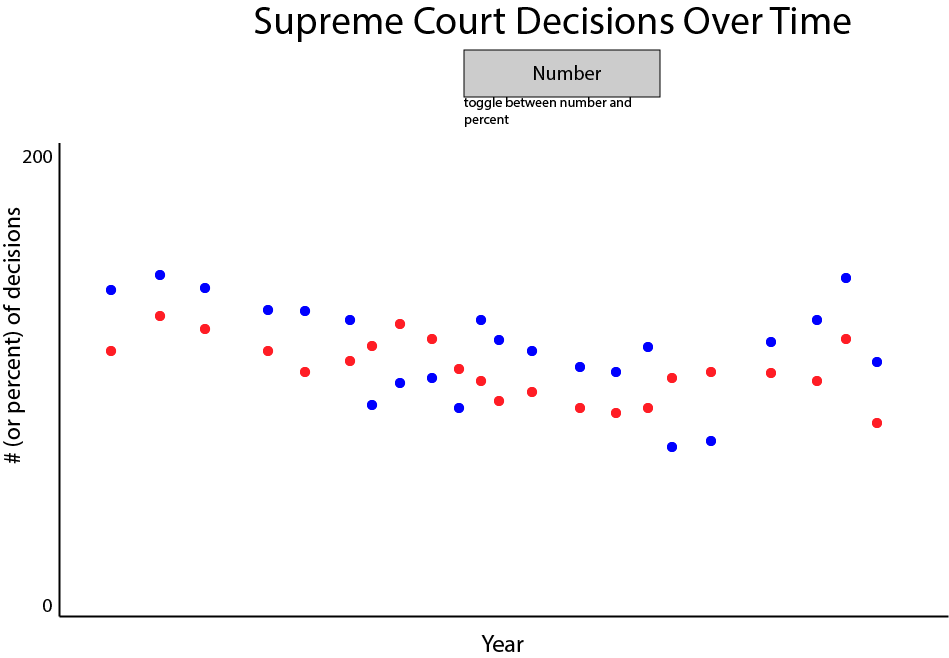
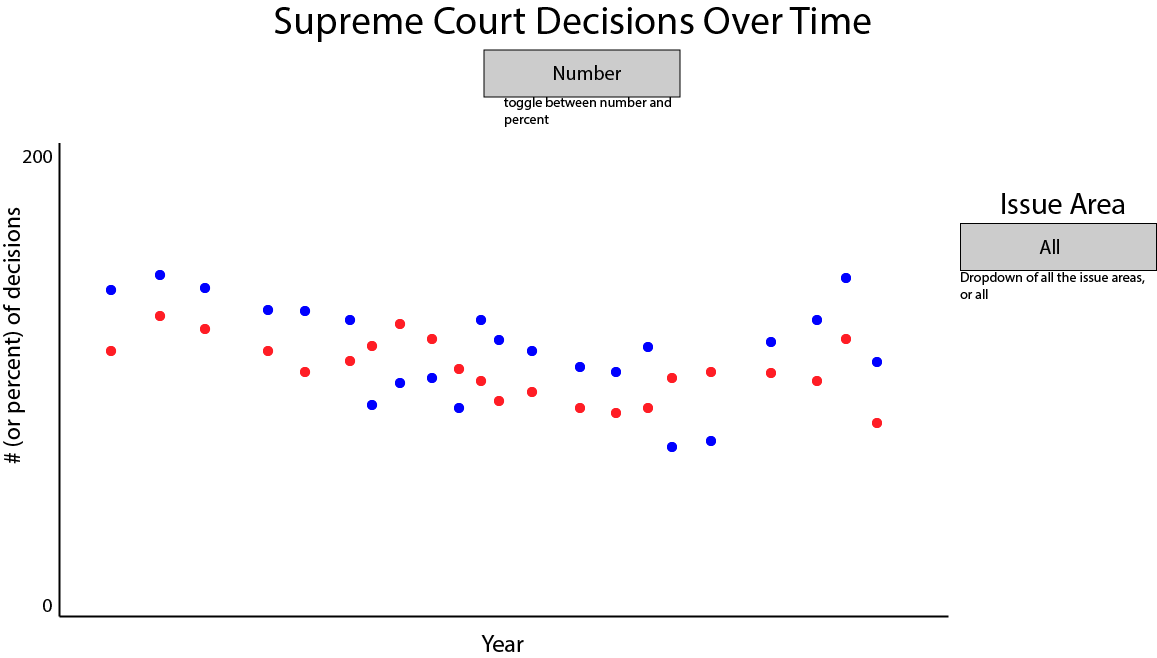
more changes

diff --git a/FP10/index.html b/FP10/index.html
@@ -2,6 +2,7 @@
 <html>
 <head>
   <title>FP10</title>
+  <link rel="stylesheet" type="text/css" href="style.css">
 </head>
 
 <body>
@@ -12,12 +13,12 @@
     11.20.2017 <br> </p>
   
     <h3>Visualizations</h3>
-  <ul>
+  <ol>
     <li><a href="linegraph.html">Multi-series Line Graph</a></li>
     <li><a href="heatmap.html">Heatmap</a></li>
     <li><a href=donutchart.html>Donut Chart</a></li>
     <li><a href="scatterplot.html">Scatterplot</a></li>
-  </ul>
+  </ol>
 
   <h3>Potential Roadblocks</h3>
   <ul>
@@ -42,6 +43,10 @@
     <ul>
       <li>Get swing vote data from Sorenson, figure out if any changes need to be made</li>
       <li>Implement zooming functionality</li>
+      <ul>
+        <li>Create the chief justice timeline beneath the line graph</li>
+        <li>Create update functions</li>
+      </ul>
     </ul>
     <li>Heatmap</li>
     <ul>
@@ -65,7 +70,7 @@
   <ul>
     <li>Line Graph</li>
     <ul>
-      <li>Implement selecting different justices and justice groups</li>
+      <li>Implement selecting different justices and justice groups (checkboxes)</li>
       <li>Make sure labels are properly formatted and visible whenever necessary</li>
       <li>Make sure the visualization is user-friendly</li>
     </ul>
@@ -80,6 +85,7 @@
         <li>Remove grey dots ("unspecifiable" data points)</li>
         <li>Show actual information on hover via a tooltip</li>
         <li>Implement switching between percentage and actual numbers</li>
+        <li>Implement switching issue areas</li>
       </ul>
     </ul>
     <li>Donut Chart</li>
@@ -94,6 +100,7 @@
   <p>Week 4 (12/10-presentations):</p>
   <ul>
     <li>Continue working on the pie chart and scatterplot if necessary</li>
+    <li>Create landing page</li>
     <li>Clean up the code, make sure everything is commented properly</li>
     <li>Make sure everything looks good when put together, buttons/fonts/colors are consistant, etc.</li>
     <li>Prepare for presentations</li>

diff --git a/FP10/scatterplot.html b/FP10/scatterplot.html
@@ -1,7 +1,7 @@
 <!DOCTYPE html>
 <html>
 <head>
-<title>FP10: Donut Chart</title>
+<title>FP10: Scatterplot</title>
 <body>
 <div class="heading">
   <h3>FP10: Define Your Goals</h3>
@@ -15,16 +15,19 @@
   <ul>
     <li>When has the court predominantly lean liberal or conservative?</li>
     <li>When has the court taken on the most cases?</li>
+    <li>Does the above differ by issue area? </li>
   </ul>
   <p>Sketch</p>
   <img src="img/scatterplot.png" alt="scatterplot sketch" height="400" width="600">
   <p>Implemented Interactions</p>
   <ul>
     <li>Toggle between total number of cases in a year vs. percent of cases in a year</li>
+    <li>Change the issue area</li>
   </ul>
   <p>Concrete example:</p>
   <ul>
     <li>The user will view the graph, and then toggle between the two views if they feel so inclined</li>
+    <li>The user can select either the court's entire history, or only view cases that were decided within a certain issue area</li>
   </ul>
   <p>Proposed impementation path:</p>
   <ul>
@@ -32,6 +35,7 @@
     <li>Remove the grey "unspecified" dots from the graph</li>
     <li>Use the existing number aggregate data to create more data points for the percentage, not just number, of conservative/liberal cases</li>
     <li>Add the functionality to switch between the two views</li>
+    <li>Implement switching issue areas</li>
   </ul>
 </div>
 </body>

diff --git a/FP10/donutchart.html b/FP10/donutchart.html
@@ -10,7 +10,7 @@
     11.20.2017 <br> </p>
 </div>
 <div class="writeup">
-  <h3>Scatterplot</h3>
+  <h3>Donut Chart</h3>
   <p>Questions that can be answered:</p>
   <ul>
     <li>In which issue areas does the court decide cases?</li>

diff --git a/FP10/linegraph.html b/FP10/linegraph.html
@@ -1,7 +1,7 @@
 <!DOCTYPE html>
 <html>
 <head>
-<title>FP10: Line Grapht</title>
+<title>FP10: Line Graph</title>
 <body>
 <div class="heading">
   <h3>FP10: Define Your Goals</h3>

diff --git a/FP10/style.css b/FP10/style.css
@@ -1,0 +1,3 @@
+body {
+  width: 800px
+}
